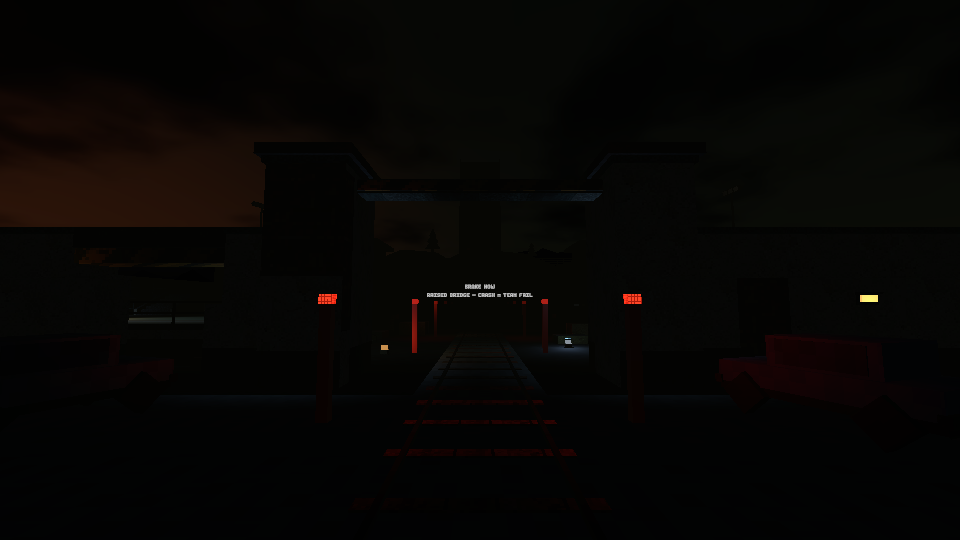
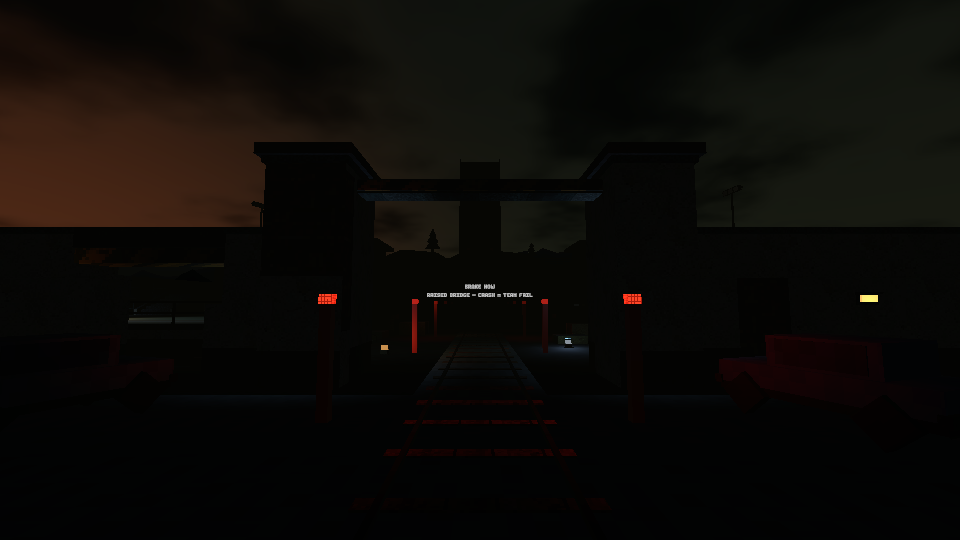
Add a darker deep night before the mid shop block
Until the train reaches the mid shop (helipad) block the sky, mountains and
ambient light use a darker deep-night phase, fading to the regular night over
the first 30 m of that block. RailRoute exposes MidpointStart and
RailAtmosphere derives the fade from the shared train distance, so clients,
late joiners and replays agree. Tuner gains a Deep night stage; checks cover it.

Changed region(s): [[0.0, 0.1185, 0.2812, 0.4444]]

diff --git a/Assets/Scripts/Gameplay/RailAtmosphere.cs b/Assets/Scripts/Gameplay/RailAtmosphere.cs
@@ -52,6 +52,19 @@ public sealed class RailAtmosphere
 
     public static bool IsStormSky(Material material) => material != null && material.shader != null && material.shader.name == StormSkyShader;
 
+    /// <summary>Metres from the start of the mid shop block over which deep night fades to night.</summary>
+    public const float MidpointFadeLength = 30;
+
+    // 0 = deep night, 1 = night. Uses the shared train distance, so every client and late joiner agrees.
+    // Without a live route/train (editor preview, other scenes) it stays at night.
+    public static float MidpointLift()
+    {
+        var route = RailRoute.Instance; var train = RailTrain.Instance;
+        if (route == null || train == null) return 1;
+        if (route.MidpointStart < 0) return 0;
+        return Mathf.SmoothStep(0, 1, Mathf.Clamp01((train.Distance - route.MidpointStart) / MidpointFadeLength));
+    }
+
     // Route distance gives late joiners and a replacement master the same pre-dawn state.
     // Success blends during the automatic bridge/tunnel ride; failures never receive dawn.
     public static float Progress(float distanceIntoFinale, bool success, double elapsed)
@@ -82,11 +95,14 @@ public sealed class RailAtmosphere
             CreateMountains();
         }
         if (mountains != null) mountains.FollowRoute();
-        float t = Mathf.Clamp(progress, 0, 2);
+        // -1 deep night, 0 night, 1 pre-dawn, 2 dawn. Before the finale (progress 0) the shared train
+        // distance lifts deep night to night across the start of the mid shop block.
+        float t = Mathf.Clamp(progress, -1, 2);
+        if (t == 0) t = MidpointLift() - 1;
         if (t == lastProgress) return;
         lastProgress = t;
-        bool dawn = t > 1;
-        float blend = dawn ? t - 1 : t;
+        bool deep = t < 0, dawn = t > 1;
+        float blend = deep ? t + 1 : dawn ? t - 1 : t;
         RenderSettings.fog = true;
         RenderSettings.fogMode = FogMode.ExponentialSquared;
         float nightDensity = settings != null ? settings.nightDensity : .06f;
@@ -95,12 +111,16 @@ public sealed class RailAtmosphere
         Color nightColor = settings != null ? settings.nightColor : NightFog;
         Color preColor = settings != null ? settings.preDawnColor : PreFog;
         Color dawnColor = settings != null ? settings.dawnColor : DawnFog;
-        RenderSettings.fogDensity = Mathf.Max(0, Mathf.Lerp(dawn ? preDensity : nightDensity, dawn ? dawnDensity : preDensity, blend));
-        RenderSettings.fogColor = Color.Lerp(dawn ? preColor : nightColor, dawn ? dawnColor : preColor, blend);
+        // Deep night shares the night fog; only its sky, mountains and ambient are darker.
+        RenderSettings.fogDensity = deep ? nightDensity : Mathf.Max(0, Mathf.Lerp(dawn ? preDensity : nightDensity, dawn ? dawnDensity : preDensity, blend));
+        RenderSettings.fogColor = deep ? nightColor : Color.Lerp(dawn ? preColor : nightColor, dawn ? dawnColor : preColor, blend);
+        var deepSky = settings != null ? settings.deepNightSky : RailAtmosphereSettings.SkyPhase.DeepNight;
         var nightSky = settings != null ? settings.nightSky : RailAtmosphereSettings.SkyPhase.Night;
         var preSky = settings != null ? settings.preDawnSky : RailAtmosphereSettings.SkyPhase.PreDawn;
         var dawnSky = settings != null ? settings.dawnSky : RailAtmosphereSettings.SkyPhase.Dawn;
-        var phase = RailAtmosphereSettings.SkyPhase.Lerp(dawn ? preSky : nightSky, dawn ? dawnSky : preSky, blend);
+        var phase = deep ? RailAtmosphereSettings.SkyPhase.Lerp(deepSky, nightSky, blend)
+            : RailAtmosphereSettings.SkyPhase.Lerp(dawn ? preSky : nightSky, dawn ? dawnSky : preSky, blend);
+        if (deep) blend = 0; // the baked moonlight keeps its night values below
         RenderSettings.ambientMode = AmbientMode.Flat;
         RenderSettings.ambientLight = phase.ambient;
         if (sun != null)

diff --git a/Assets/Editor/RailAtmosphereChecks.cs b/Assets/Editor/RailAtmosphereChecks.cs
@@ -82,6 +82,17 @@ public static class RailAtmosphereChecks
                     UnityEngine.Object.DestroyImmediate(image);
                 }
             }
+            // Deep night (before the mid shop block) and its fade to night; edit mode has no live route, so 0 means night.
+            Check(RailAtmosphere.MidpointLift() == 1, "No live route keeps night");
+            controller.Apply(-1);
+            Check(Mathf.Approximately(RenderSettings.skybox.GetFloat("_Exposure"), settings.deepNightSky.exposure), "Deep night sky exposure");
+            Check(RenderSettings.ambientLight == settings.deepNightSky.ambient, "Deep night ambient");
+            Check(RenderSettings.fogColor == settings.nightColor && Mathf.Approximately(RenderSettings.fogDensity, settings.nightDensity), "Deep night uses night fog");
+            Check(settings.deepNightSky.exposure < settings.nightSky.exposure, "Deep night darker than night");
+            controller.Apply(-.5f);
+            Check(Mathf.Approximately(RenderSettings.skybox.GetFloat("_Exposure"), (settings.deepNightSky.exposure + settings.nightSky.exposure) / 2), "Deep night fade midpoint");
+            controller.Apply(0);
+            Check(Mathf.Approximately(RenderSettings.skybox.GetFloat("_Exposure"), settings.nightSky.exposure), "Fade ends at night");
             controller.Restore();
             Check(controller.Mountains == null && UnityEngine.Object.FindObjectsByType<RailDistantMountains>(FindObjectsSortMode.None).Length == 0, "Mountain ring removed");
             Check(controller.Sunlight == null && GameObject.Find("Dawn sun (runtime)") == null, "Dawn sunlight removed");

diff --git a/Assets/Editor/RailAtmosphereWindow.cs b/Assets/Editor/RailAtmosphereWindow.cs
@@ -181,9 +181,10 @@ public sealed class RailAtmosphereWindow : EditorWindow
             if (GUILayout.Button(preview ? "Stop preview" : "Preview in Scene View"))
             { if (preview) StopPreview(); else StartPreview(); }
             EditorGUI.BeginChangeCheck();
-            progress = EditorGUILayout.Slider("Night > Pre-dawn > Dawn", progress, 0, 2);
+            progress = EditorGUILayout.Slider("Deep night > Night > Pre-dawn > Dawn", progress, -1, 2);
             using (new EditorGUILayout.HorizontalScope())
             {
+                if (GUILayout.Button("Deep night")) { progress = -1; GUI.changed = true; }
                 if (GUILayout.Button("Night")) { progress = 0; GUI.changed = true; }
                 if (GUILayout.Button("Pre-dawn")) { progress = 1; GUI.changed = true; }
                 if (GUILayout.Button("Dawn")) { progress = 2; GUI.changed = true; }
@@ -192,7 +193,7 @@ public sealed class RailAtmosphereWindow : EditorWindow
             scroll = EditorGUILayout.BeginScrollView(scroll);
             serializedSettings.Update();
             EditorGUI.BeginChangeCheck();
-            foreach (string name in new[] { "nightColor", "nightDensity", "preDawnColor", "preDawnDensity", "dawnColor", "dawnDensity", "nightSky", "preDawnSky", "dawnSky" })
+            foreach (string name in new[] { "nightColor", "nightDensity", "preDawnColor", "preDawnDensity", "dawnColor", "dawnDensity", "deepNightSky", "nightSky", "preDawnSky", "dawnSky" })
                 EditorGUILayout.PropertyField(serializedSettings.FindProperty(name), true);
             if (EditorGUI.EndChangeCheck())
             {

diff --git a/Assets/Scripts/Gameplay/RailAtmosphereSettings.cs b/Assets/Scripts/Gameplay/RailAtmosphereSettings.cs
@@ -18,6 +18,8 @@ public sealed class RailAtmosphereSettings : ScriptableObject
 
     // Storm sky and distant mountain endpoints. The sky's lower hemisphere follows the fog colour.
     [Header("Storm sky")]
+    [Tooltip("Before the mid shop block. Fades to Night Sky over the start of that block. Uses the night fog.")]
+    public SkyPhase deepNightSky = SkyPhase.DeepNight;
     public SkyPhase nightSky = SkyPhase.Night;
     public SkyPhase preDawnSky = SkyPhase.PreDawn;
     public SkyPhase dawnSky = SkyPhase.Dawn;
@@ -44,6 +46,16 @@ public sealed class RailAtmosphereSettings : ScriptableObject
         public Color mountainNear;
         public Color mountainFar;
 
+        // Justin, Nov 23: darker still until the players reach the mid shop block.
+        public static SkyPhase DeepNight => new SkyPhase
+        {
+            zenith = new Color(.08f, .095f, .065f), horizon = new Color(.06f, .068f, .045f),
+            cloudEdge = new Color(.14f, .155f, .11f), cloudShadow = new Color(.018f, .024f, .017f),
+            cloudCoverage = .54f, cloudOpacity = .95f,
+            exposure = .22f, sunGlow = new Color(1, .55f, .25f), sunGlowStrength = 0, sunElevation = -12,
+            sunlight = new Color(1, .85f, .65f), sunlightIntensity = 0, ambient = new Color(.014f, .017f, .025f),
+            mountainNear = new Color(.003f, .003f, .002f), mountainFar = new Color(.011f, .013f, .009f),
+        };
         // Night is a much darker version of the Duckz storm palette (Duckz exposure 0.8; Justin, Nov 23: night too bright).
         public static SkyPhase Night => new SkyPhase
         {

diff --git a/Assets/Scripts/Gameplay/RailRoute.cs b/Assets/Scripts/Gameplay/RailRoute.cs
@@ -29,6 +29,8 @@ public sealed class RailRoute : MonoBehaviour
     public string LoadedRun { get; private set; }
     public RailRouteState Selection { get; private set; }
     public float FinaleStart { get; private set; }
+    /// <summary>Shared route distance where the mid shop (helipad) block begins; -1 before the route is built.</summary>
+    public float MidpointStart { get; private set; } = -1;
     public const float StationLength = 160;
     public const float StationDepartureLength = StationLength / 2;
     public const float StartZ = 150;
@@ -142,11 +144,12 @@ public sealed class RailRoute : MonoBehaviour
         Blocks.Clear(); var coal = new List<Transform>(); var enemies = new List<Transform>(); var gold = new List<Transform>();
         var graphs = new List<Game.AI.CrawlGraph>(); var offsets = new List<Vector3>();
         var enemyTypes = new List<int>();
-        float distance = StationDepartureLength;
+        float distance = StationDepartureLength; MidpointStart = -1;
         for (int i = 0; i < count; i++)
         {
             var block = Instantiate(catalog.Single(b => b.id == state.blocks[i]), state.placements[i], Quaternion.identity, transform);
             Blocks.Add(block); distance += block.TrackLength;
+            if (i == MidpointBlockIndex(count)) MidpointStart = distance;
             coal.AddRange(SelectResources(block, RailSpawnKind.Coal, state));
             RailEnemySpawnBalance.Append(block, state.enemySeed, state.resourceCrew, enemies, enemyTypes);
             gold.AddRange(SelectResources(block, RailSpawnKind.Gold, state));

diff --git a/docs/block-lighting.md b/docs/block-lighting.md
@@ -257,3 +257,7 @@ are unchanged. [Evidence, images and checks](validation/station-lightmap-fix/REA
 ### Darker night sky — November 23, 2026
 
 Justin: night sky much too bright, then "still too bright". Night sky exposure 0.6 → 0.3 → 0.12 → 0.2 → 0.5 → **0.4** and pre-dawn 0.7 → 0.4 → 0.2 → 0.3 → **0.6** (Nov 23 evening: still much too dark; "a little bit darker than the original values"; mountains night near 0.005 / far 0.02, pre-dawn 0.008 / 0.035) (saved in `Atmosphere.asset`, code defaults, and both `ExpeditionSky.mat` and Login's `Quackville_Skybox.mat`); night/pre-dawn mountain colours reduced (night far 0.008, near 0.002) so the ridges stay darker than the sky; night Horizon colour halved to (0.06, 0.068, 0.045) so the band above the horizon is no brighter than overhead. Dawn unchanged. **Check Expedition Atmosphere** 61 assertions and **Check Atmosphere Tuner** pass. To tune further: **Duck Rails > Lighting > Atmosphere Tuner** → Preview, pick Night/Pre-dawn/Dawn, edit the `Night Sky` / `Pre Dawn Sky` / `Dawn Sky` fields (Exposure is the overall brightness), then **Save fog and sky settings**. Login's sky is the `Brightness` slider on `Quackville_Skybox.mat`.
+
+### Deep night before the mid shop — November 23, 2026
+
+Justin: the current night becomes the state once the players reach the mid shop block; before that it should be darker, fading to night on arrival. `RailAtmosphere` now spans -1 deep night, 0 night, 1 pre-dawn, 2 dawn. While the finale has not been reached (progress 0) it computes `MidpointLift()` from the shared `RailTrain.Distance` and the new `RailRoute.MidpointStart` (route distance where the helipad block begins, set in `Build`), smoothstepped over the first 30 m of that block, so every client, late joiner and replay agrees without new network state. Deep night (`deepNightSky` in `Atmosphere.asset`) uses sky exposure 0.22 (night 0.4), ambient (0.014, 0.017, 0.025) and darker mountains; it shares the night fog. Without a live route/train (editor preview, other scenes) it stays at night. Tuner: new **Deep night** button and **Deep Night Sky** fields. Validation: **Check Expedition Atmosphere** 68 assertions (including deep night values, night fog, fade midpoint and end) and **Check Atmosphere Tuner** pass; game, editor and player-define compiles pass. Play Mode/two-client/headset checks queued.

diff --git a/docs/playtest-queue.md b/docs/playtest-queue.md
@@ -1,5 +1,10 @@
 # Playtest queue
 
+## Deep night before the mid shop — queued 2026-11-23
+
+- Changed: from departure until the mid shop (helipad) block the sky, mountains and ambient light use a darker "deep night" (sky exposure 0.22 vs night 0.4); over the first 30 m of the mid shop block it fades to the regular night. Uses `RailRoute.MidpointStart` and the shared train distance. Editor: 68 atmosphere assertions and the tuner checks pass; game and player-define compiles pass. No Play Mode or headset run.
+- Check: in a two-client run, both players see the same darkness before the mid shop and the same smooth fade as the train enters it; a late joiner after the mid shop sees regular night straight away; a new run starts dark again. Judge the deep-night darkness on headset (tune **Deep Night Sky > Exposure / Ambient** in the Atmosphere Tuner).
+
 ## Held shovel scenery impacts — queued for playtest, 2026-11-23
 
 - The held Scrap Duck shovel plays `ScrapShovel_SurfaceImpact` at a new solid contact when the shovel moves into the surface at 2 m/s or faster. The event chooses from the spade, the hammer and the first shield strike (trimmed to 1.70 s to retain its decay). Unity compiled and Edit Mode confirmed all three mono imports, prefab references and network registry registration.

diff --git a/docs/game-design.md b/docs/game-design.md
@@ -1,5 +1,12 @@
 # Duck Rails — V1 game design
 
+November 23 deep night (Justin): until the train reaches the mid shop
+(helipad) block the night is darker (sky, mountains, ambient light); over the
+first 30 m of that block it fades to the regular night. Fog, pre-dawn and the
+sunny dawn win effect are unchanged. Driven by the shared train distance, so all
+clients and late joiners match. See
+[storm sky](block-lighting.md#storm-sky-night-to-dawn--november-22).
+
 November 23 shovel audio: a hard swing into scenery while holding the Scrap Duck shovel plays one of three clangs at the contact point (spade, hammer or the first shield strike). The initial impact threshold is 2 m/s into the surface. [Queued for playtest](playtest-queue.md#held-shovel-scenery-impacts--queued-for-playtest-2026-11-23).
 
 November 23 sunny dawn (Justin): the successful-escape dawn should feel really
